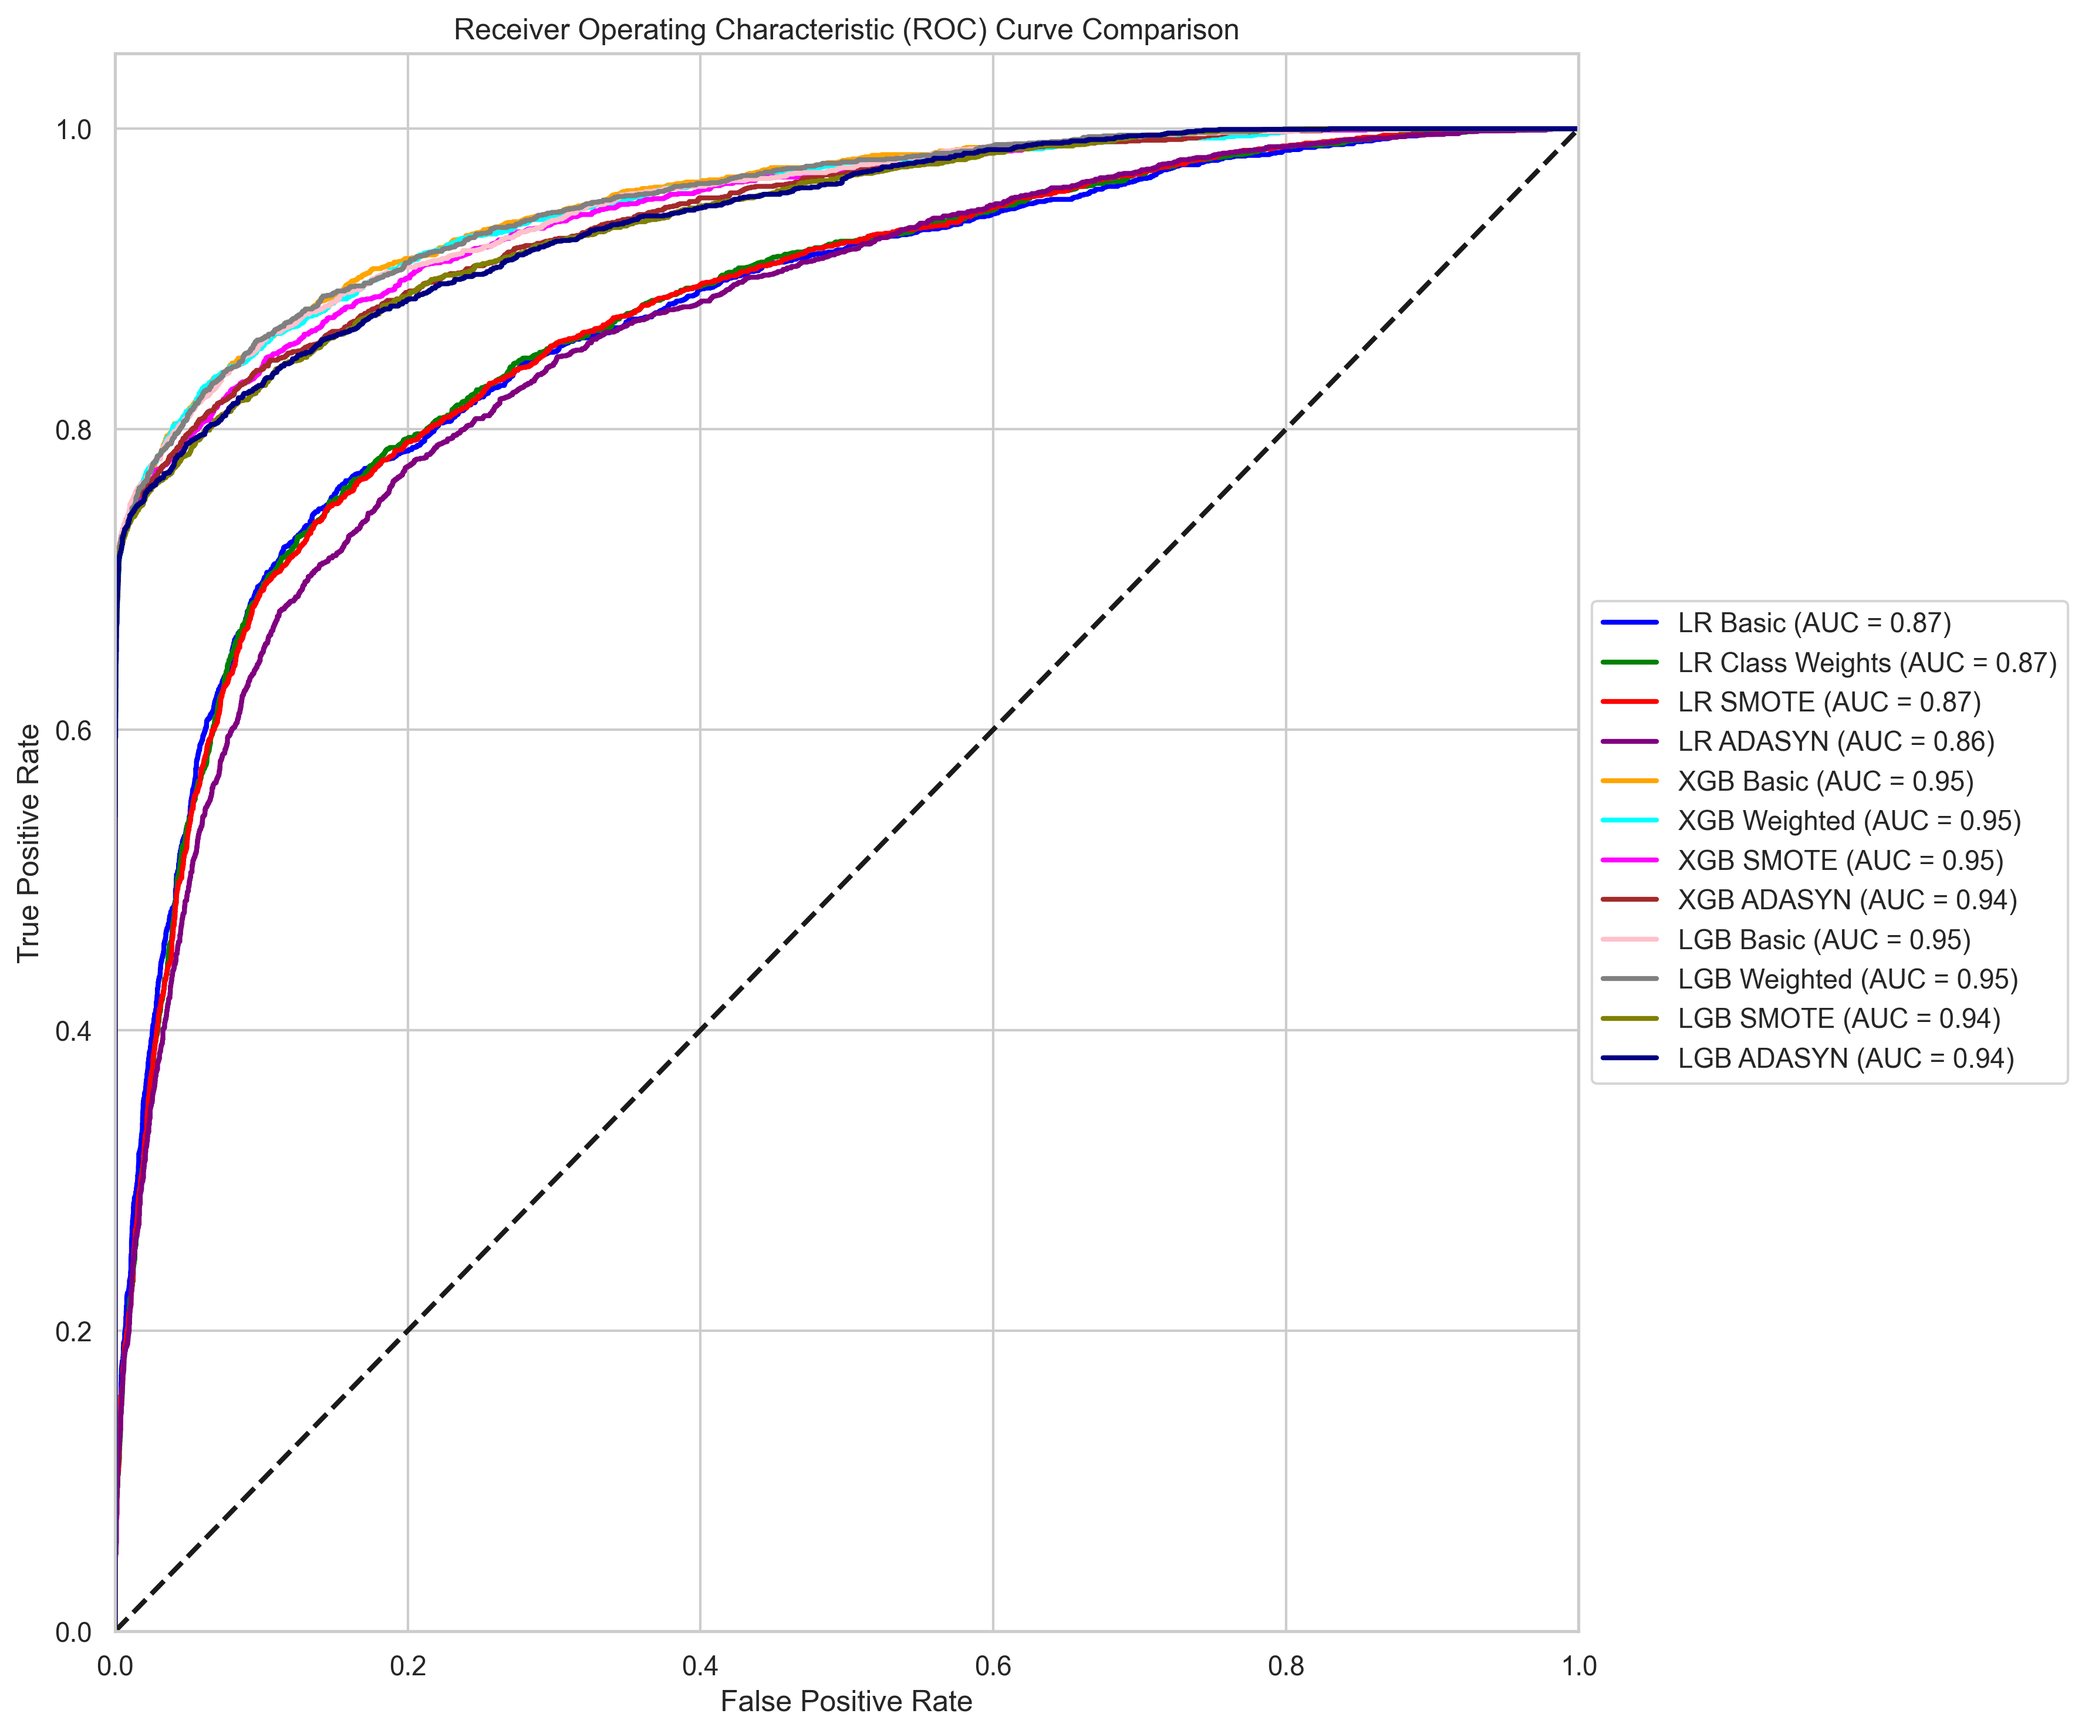
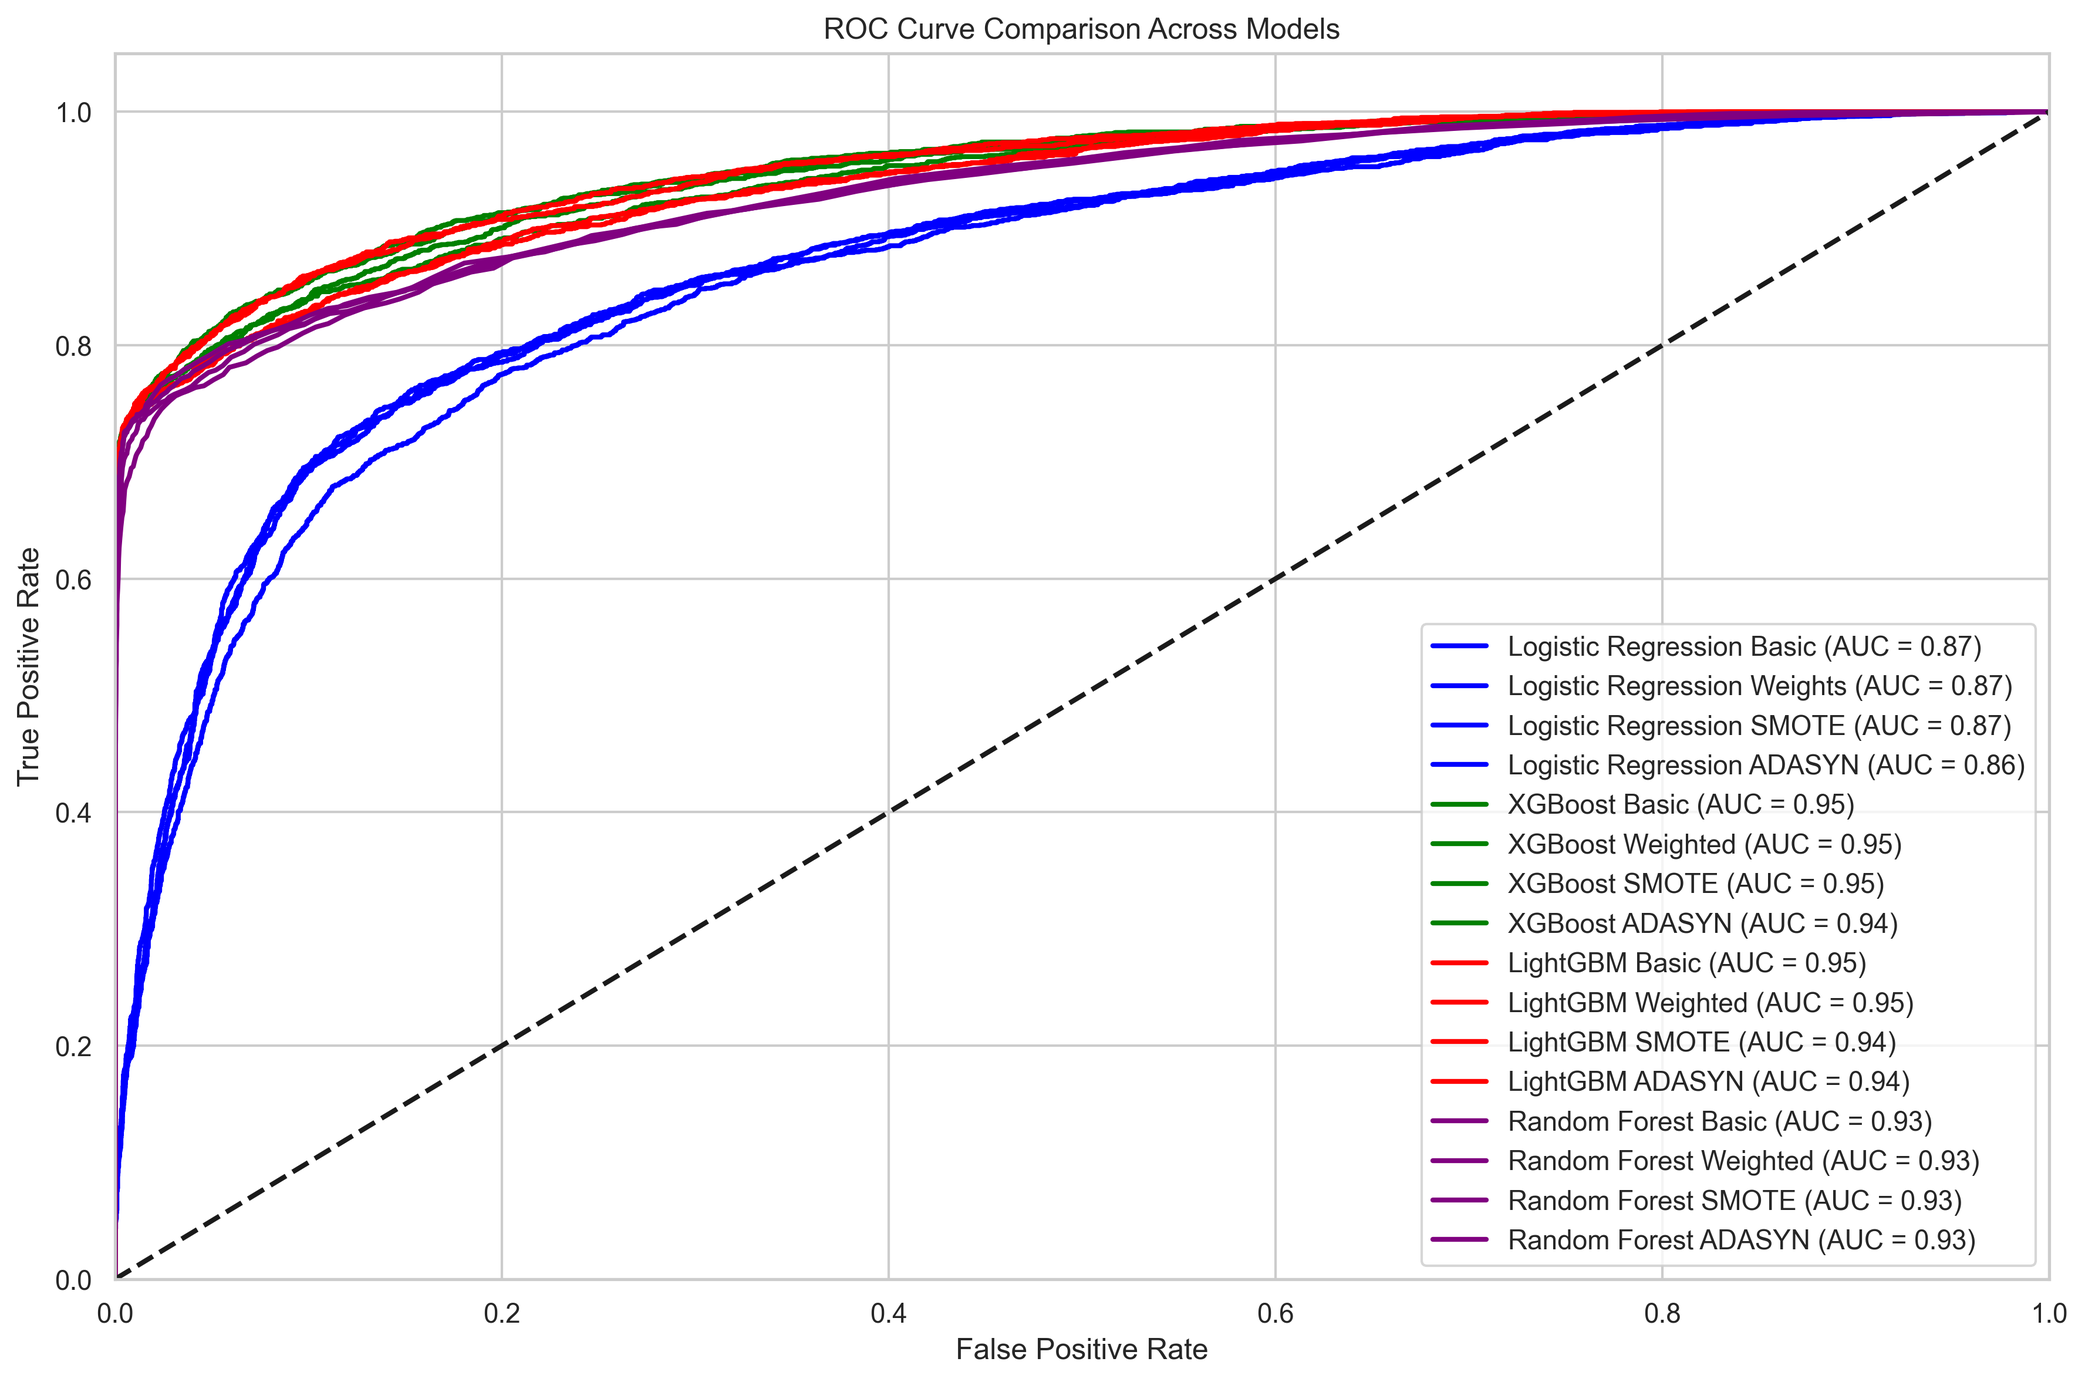
update

diff --git a/curve.py b/curve.py
@@ -2,7 +2,7 @@ import matplotlib.pyplot as plt
 import seaborn as sns
 import numpy as np
 import pandas as pd
-from sklearn.metrics import recall_score, f1_score, roc_auc_score, roc_curve, auc
+from sklearn.metrics import recall_score, f1_score, roc_auc_score, roc_curve, auc, accuracy_score
 import joblib
 from sklearn.preprocessing import StandardScaler
 from sklearn.model_selection import train_test_split
@@ -94,25 +94,115 @@ for group, model_list in model_groups.items():
     plt.savefig(f'f1_comparison_{group.lower().replace(" ", "_")}.png', dpi=300, bbox_inches='tight')
     plt.show()
 
-# 3. AUC-ROC曲线对比图（按算法分开）
+# 7. Accuracy和Recall对比图（合并为一张图）
+plt.figure(figsize=(20, 8))
+x_labels = ['Basic', 'Class Weighted', 'SMOTE', 'ADASYN']
+colors = ['blue', 'green', 'red', 'purple']
+markers = ['o', 's', '^', 'D']
+
+# 左子图 - Accuracy
+plt.subplot(1, 2, 1)
 for group, model_list in model_groups.items():
-    plt.figure(figsize=(10, 8))
-    colors = ['blue', 'green', 'red', 'purple']
-    for name, color in zip(model_list, colors):
+    accuracy_scores = []
+    for name in model_list:
+        model = models[name]
+        y_pred = model.predict(X_test)
+        accuracy = accuracy_score(y_test, y_pred)
+        accuracy_scores.append(accuracy)
+    
+    plt.plot(x_labels, accuracy_scores, marker=markers[0], markersize=8, 
+             linestyle='-', linewidth=2, color=colors[0], label=group)
+    for i, v in enumerate(accuracy_scores):
+        plt.text(i, v, f"{v:.3f}", ha='center', va='bottom')
+    colors.pop(0)
+    markers.pop(0)
+
+plt.title('Accuracy Comparison')
+plt.ylabel('Accuracy Score')
+plt.xlabel('Sampling Method')
+plt.legend()
+plt.grid(True)
+
+# 右子图 - Recall
+plt.subplot(1, 2, 2)
+colors = ['blue', 'green', 'red', 'purple']
+markers = ['o', 's', '^', 'D']
+for group, model_list in model_groups.items():
+    recall_scores = []
+    for name in model_list:
+        model = models[name]
+        y_pred = model.predict(X_test)
+        recall = recall_score(y_test, y_pred)
+        recall_scores.append(recall)
+    
+    plt.plot(x_labels, recall_scores, marker=markers[0], markersize=8, 
+             linestyle='-', linewidth=2, color=colors[0], label=group)
+    for i, v in enumerate(recall_scores):
+        plt.text(i, v, f"{v:.3f}", ha='center', va='bottom')
+    colors.pop(0)
+    markers.pop(0)
+
+plt.title('Recall Score Comparison')
+plt.ylabel('Recall Score')
+plt.xlabel('Sampling Method')
+plt.legend()
+plt.grid(True)
+
+plt.tight_layout()
+plt.savefig('accuracy_recall_comparison.png', dpi=300, bbox_inches='tight')
+plt.show()
+
+# 8. F1和ROC对比图（合并为一张图）
+plt.figure(figsize=(20, 8))
+
+# 左子图 - F1 Score
+plt.subplot(1, 2, 1)
+colors = ['blue', 'green', 'red', 'purple']
+markers = ['o', 's', '^', 'D']
+for group, model_list in model_groups.items():
+    f1_scores = []
+    for name in model_list:
+        model = models[name]
+        y_pred = model.predict(X_test)
+        f1 = f1_score(y_test, y_pred)
+        f1_scores.append(f1)
+    
+    plt.plot(x_labels, f1_scores, marker=markers[0], markersize=8, 
+             linestyle='-', linewidth=2, color=colors[0], label=group)
+    for i, v in enumerate(f1_scores):
+        plt.text(i, v, f"{v:.3f}", ha='center', va='bottom')
+    colors.pop(0)
+    markers.pop(0)
+
+plt.title('F1 Score Comparison')
+plt.ylabel('F1 Score')
+plt.xlabel('Sampling Method')
+plt.legend()
+plt.grid(True)
+
+# 右子图 - ROC曲线
+plt.subplot(1, 2, 2)
+colors = ['blue', 'green', 'red', 'purple']
+for group, model_list in model_groups.items():
+    for name in model_list:
         model = models[name]
         y_pred_proba = model.predict_proba(X_test)[:, 1]
         fpr, tpr, _ = roc_curve(y_test, y_pred_proba)
         roc_auc = auc(fpr, tpr)
-        plt.plot(fpr, tpr, color=color, lw=2,
-                 label=f'{name} (AUC = {roc_auc:.2f})')
-    
-    plt.plot([0, 1], [0, 1], 'k--', lw=2)
-    plt.xlim([0.0, 1.0])
-    plt.ylim([0.0, 1.05])
-    plt.xlabel('False Positive Rate')
-    plt.ylabel('True Positive Rate')
-    plt.title(f'ROC Curve Comparison - {group}')
-    plt.legend(loc='lower right')
-    plt.tight_layout()
-    plt.savefig(f'roc_comparison_{group.lower().replace(" ", "_")}.png', dpi=300, bbox_inches='tight')
-    plt.show()
+        plt.plot(fpr, tpr, color=colors[0], lw=2,
+                label=f'{group} {name.split()[-1]} (AUC = {roc_auc:.2f})')
+    colors.pop(0)
+
+plt.plot([0, 1], [0, 1], 'k--', lw=2)
+plt.xlim([0.0, 1.0])
+plt.ylim([0.0, 1.05])
+plt.xlabel('False Positive Rate')
+plt.ylabel('True Positive Rate')
+plt.title('ROC Curve Comparison')
+plt.legend(loc='lower right')
+plt.grid(True)
+
+plt.tight_layout()
+plt.savefig('f1_roc_comparison.png', dpi=300, bbox_inches='tight')
+plt.show()
+

diff --git a/logistic_regression.py b/logistic_regression.py
@@ -57,20 +57,20 @@ joblib.dump(lr, 'lr_model_basic.pkl')
 
 
 
-# L1 regularization
-print("\n=== Logistic Regression with L1 Regularization ===")
-lr_l1 = LogisticRegression(
-    penalty='l1', 
-    # penalty='elasticnet',  # Combine L1 and L2 regularization
-    # l1_ratio=0.5,  # Balance between L1 and L2
-    solver='saga',  # Better for large datasets
-    C=0.1
-)
-lr_l1.fit(X_train, y_train)
-y_pred = lr_l1.predict(X_test)
-print_metrics(y_test, y_pred)
-print_top_features(lr_l1, data.columns.drop('loan_status'))
-joblib.dump(lr_l1, 'lr_l1_model.pkl')
+# # L1 regularization
+# print("\n=== Logistic Regression with L1 Regularization ===")
+# lr_l1 = LogisticRegression(
+#     penalty='l1', 
+#     # penalty='elasticnet',  # Combine L1 and L2 regularization
+#     # l1_ratio=0.5,  # Balance between L1 and L2
+#     solver='saga',  # Better for large datasets
+#     C=0.1
+# )
+# lr_l1.fit(X_train, y_train)
+# y_pred = lr_l1.predict(X_test)
+# print_metrics(y_test, y_pred)
+# print_top_features(lr_l1, data.columns.drop('loan_status'))
+# joblib.dump(lr_l1, 'lr_l1_model.pkl')
 
 
 
